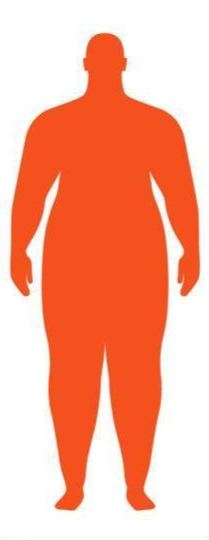
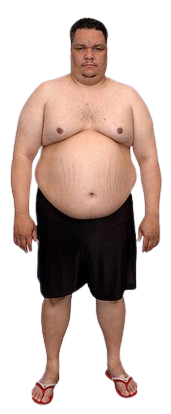
Renovando las imagenes representativas de las categorias IMC en fotos realistas sin fondo

diff --git a/body_mass_corporal/main.js b/body_mass_corporal/main.js
@@ -7,12 +7,15 @@ const outputResult = document.getElementById("show-results");
 // HANDLE EVENTS
 const handleSubmit = event => event.preventDefault();
 const handleClick = () => {
-    const BodyMassIndexPerson = new BMC(Number(inputWeight.value), Number(inputHeight.value));
-    const { BODY_MASS_INDEX, CATEGORY_NAME, IMAGE_PATH } = BodyMassIndexPerson.getResults();
-    outputResult.innerHTML = `
+    const weight = inputWeight.value, height = inputHeight.value;
+    if (weight?.length && height?.length) {
+        const BodyMassIndexPerson = new BMC(Number(weight), Number(height));
+        const { BODY_MASS_INDEX, CATEGORY_NAME, IMAGE_PATH } = BodyMassIndexPerson.getResults();
+        outputResult.innerHTML = `
         <h3>${CATEGORY_NAME.toUpperCase()}</h3>
         <img alt="${CATEGORY_NAME}" src="${IMAGE_PATH}">
         <h4>IMC: ${BODY_MASS_INDEX.toFixed(2)} kg/m<sup>2</sup></h4>`;
+    }
 };
 // LISTEN EVENTS
 formBodyMassIndex.addEventListener("submit", handleSubmit);
@@ -77,9 +80,11 @@ class BMC {
     }
 };
 
+/*
 const person = new BMC(65, 1.72);
 person.setHeight(1.75);
 person.setWeight(66);
 console.log(person.getWeight());
 console.log(person.getHeight());
 console.log(person.getBodyMassIndex());
+*/

diff --git a/body_mass_corporal/style.css b/body_mass_corporal/style.css
@@ -1,16 +1,18 @@
+@import url('https://fonts.googleapis.com/css2?family=Poppins:ital,wght@0,100;0,200;0,300;0,400;0,500;0,600;0,700;0,800;0,900;1,100;1,200;1,300;1,400;1,500;1,600;1,700;1,800;1,900&display=swap');
+
 * {
     margin: 0;
     padding: 0;
     box-sizing: border-box;
+    font-family: "Poppins", sans-serif;
 }
 
 body {
     background: aliceblue;
-    font-family: Verdana, Geneva, Tahoma, sans-serif;
 }
 
 .container {
-    width: 40%;
+    width: 30rem;
     margin: 6.25rem auto;
     padding: 1.25rem;
     color: aliceblue;
@@ -86,4 +88,15 @@ form input[type="submit"]:hover {
     margin-top: 2rem;
     justify-content: center;
     align-items: center;
+}
+
+img {
+    height: 18.75rem;
+}
+
+
+@media (max-width: 576px) {
+    .container {
+        width: 20rem;
+    }
 }
